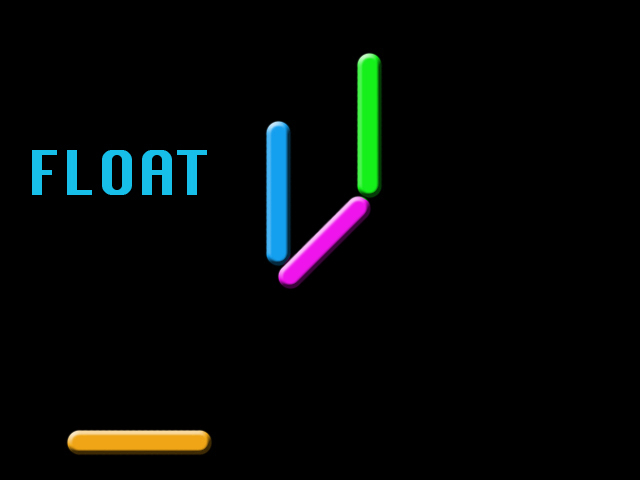
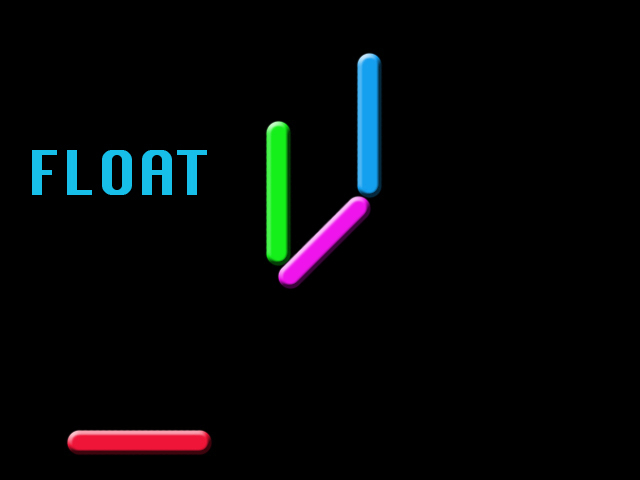
added colors laban effort images

Changed region(s): [[0.0938, 0.875, 0.3438, 0.9688], [0.5312, 0.0938, 0.5938, 0.4375], [0.4062, 0.25, 0.4688, 0.5625]]

diff --git a/public/index.html b/public/index.html
@@ -70,18 +70,18 @@
                     </div>
                     <div class="row">
                         <div class="col-xs-6 ">
-                            <img src="/res/images/laban_effort_shape/press-word.jpg" class="effort" effortid="4">
+                            <img src="/res/images/laban_effort_shape/press-word-colored.jpg" class="effort" effortid="4">
                         </div>
                         <div class="col-xs-6 ">
-                            <img src="/res/images/laban_effort_shape/slash-word.jpg" class="effort" effortid="5">
+                            <img src="/res/images/laban_effort_shape/slash-word-colored.jpg" class="effort" effortid="5">
                         </div>
                     </div>
                     <div class="row">
                         <div class="col-xs-6 ">
-                            <img src="/res/images/laban_effort_shape/thrust-word.jpg" class="effort" effortid="6">
+                            <img src="/res/images/laban_effort_shape/thrust-word-colored.jpg" class="effort" effortid="6">
                         </div>
                         <div class="col-xs-6 ">
-                            <img src="/res/images/laban_effort_shape/wring-word.jpg" class="effort" effortid="7">
+                            <img src="/res/images/laban_effort_shape/wring-word-colored.jpg" class="effort" effortid="7">
                         </div>
                     </div>               
 		    	</div>
